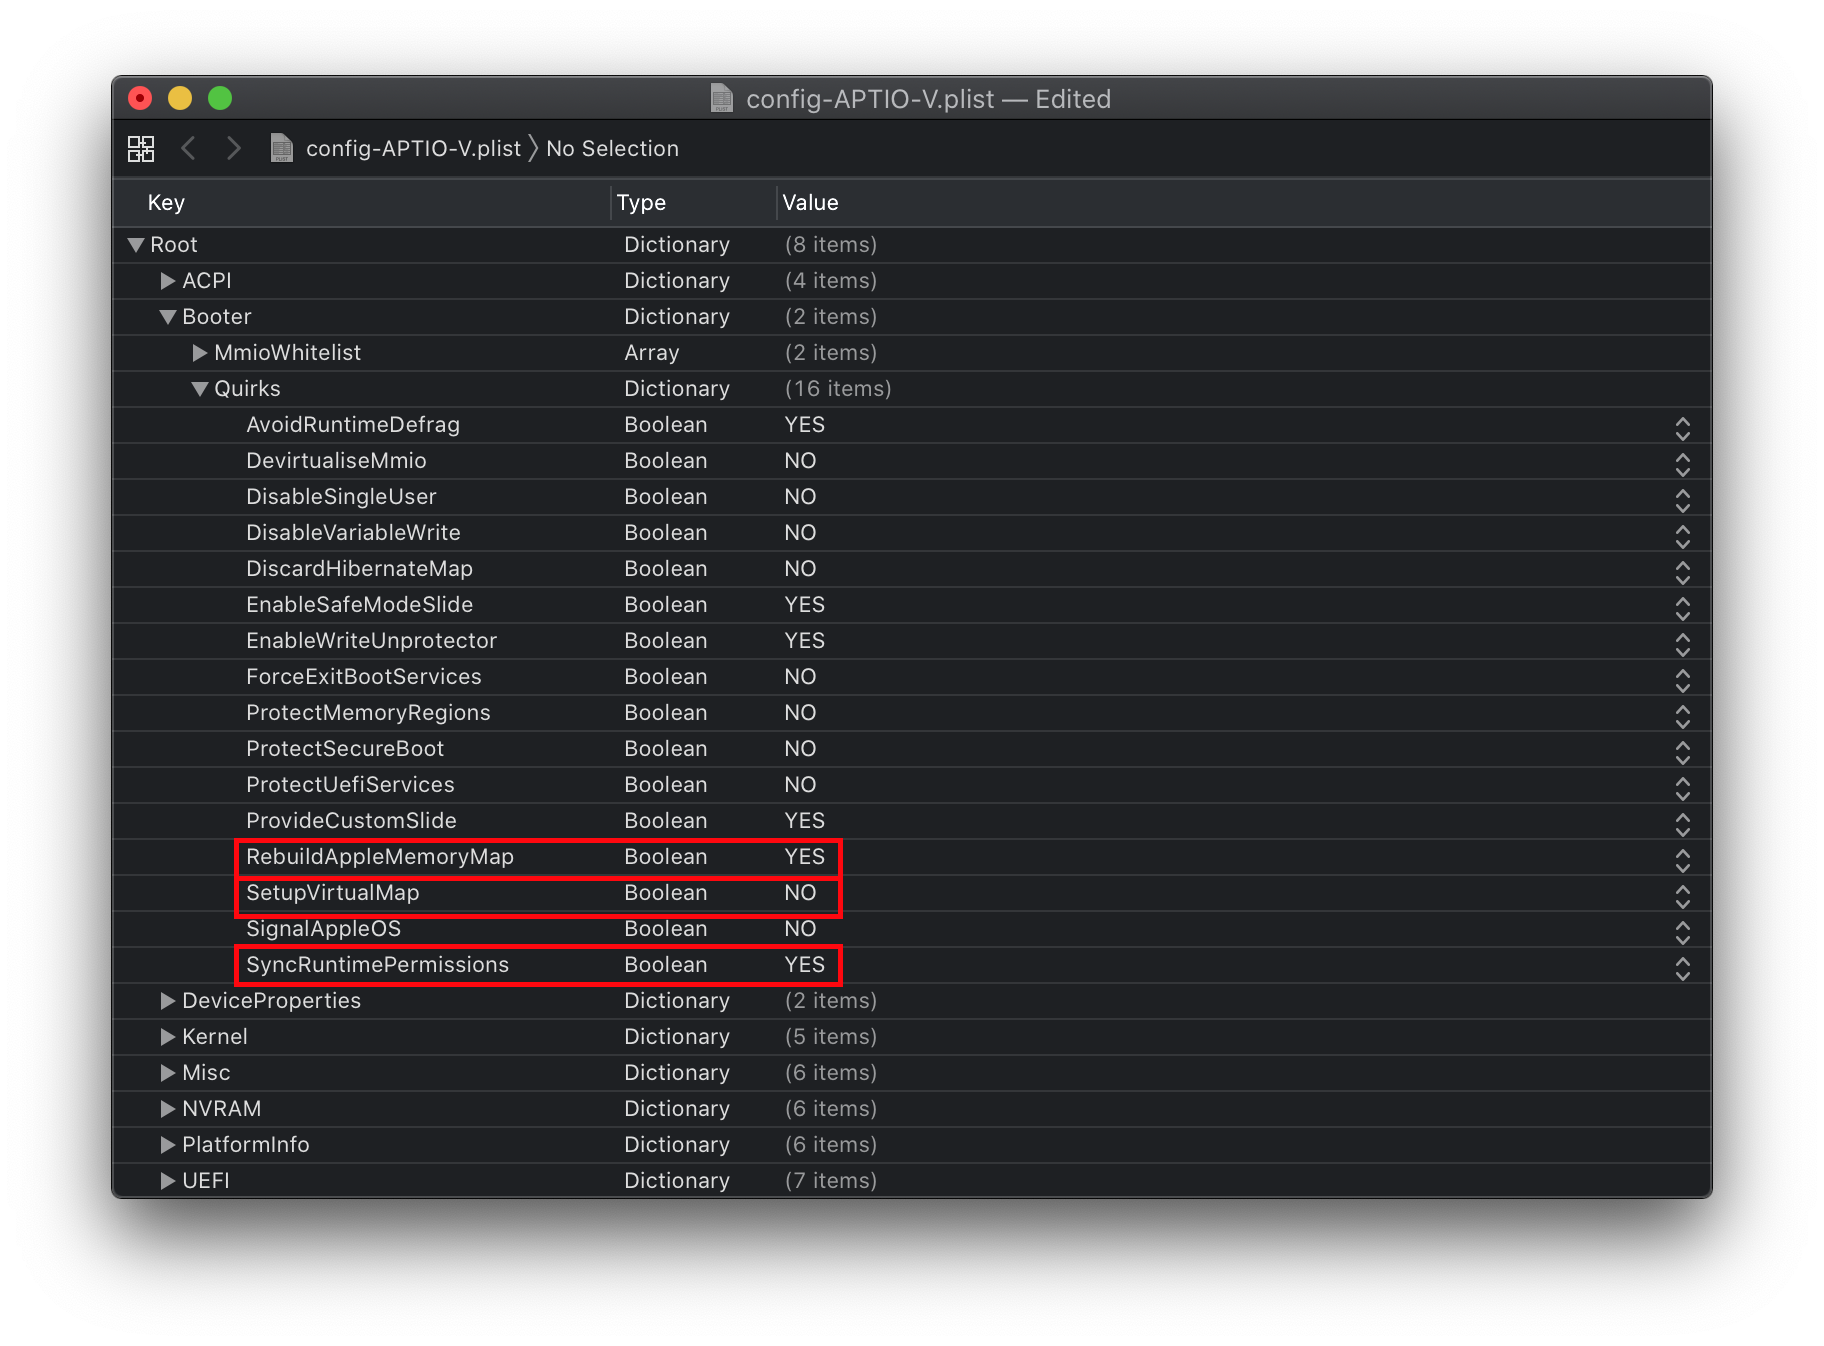
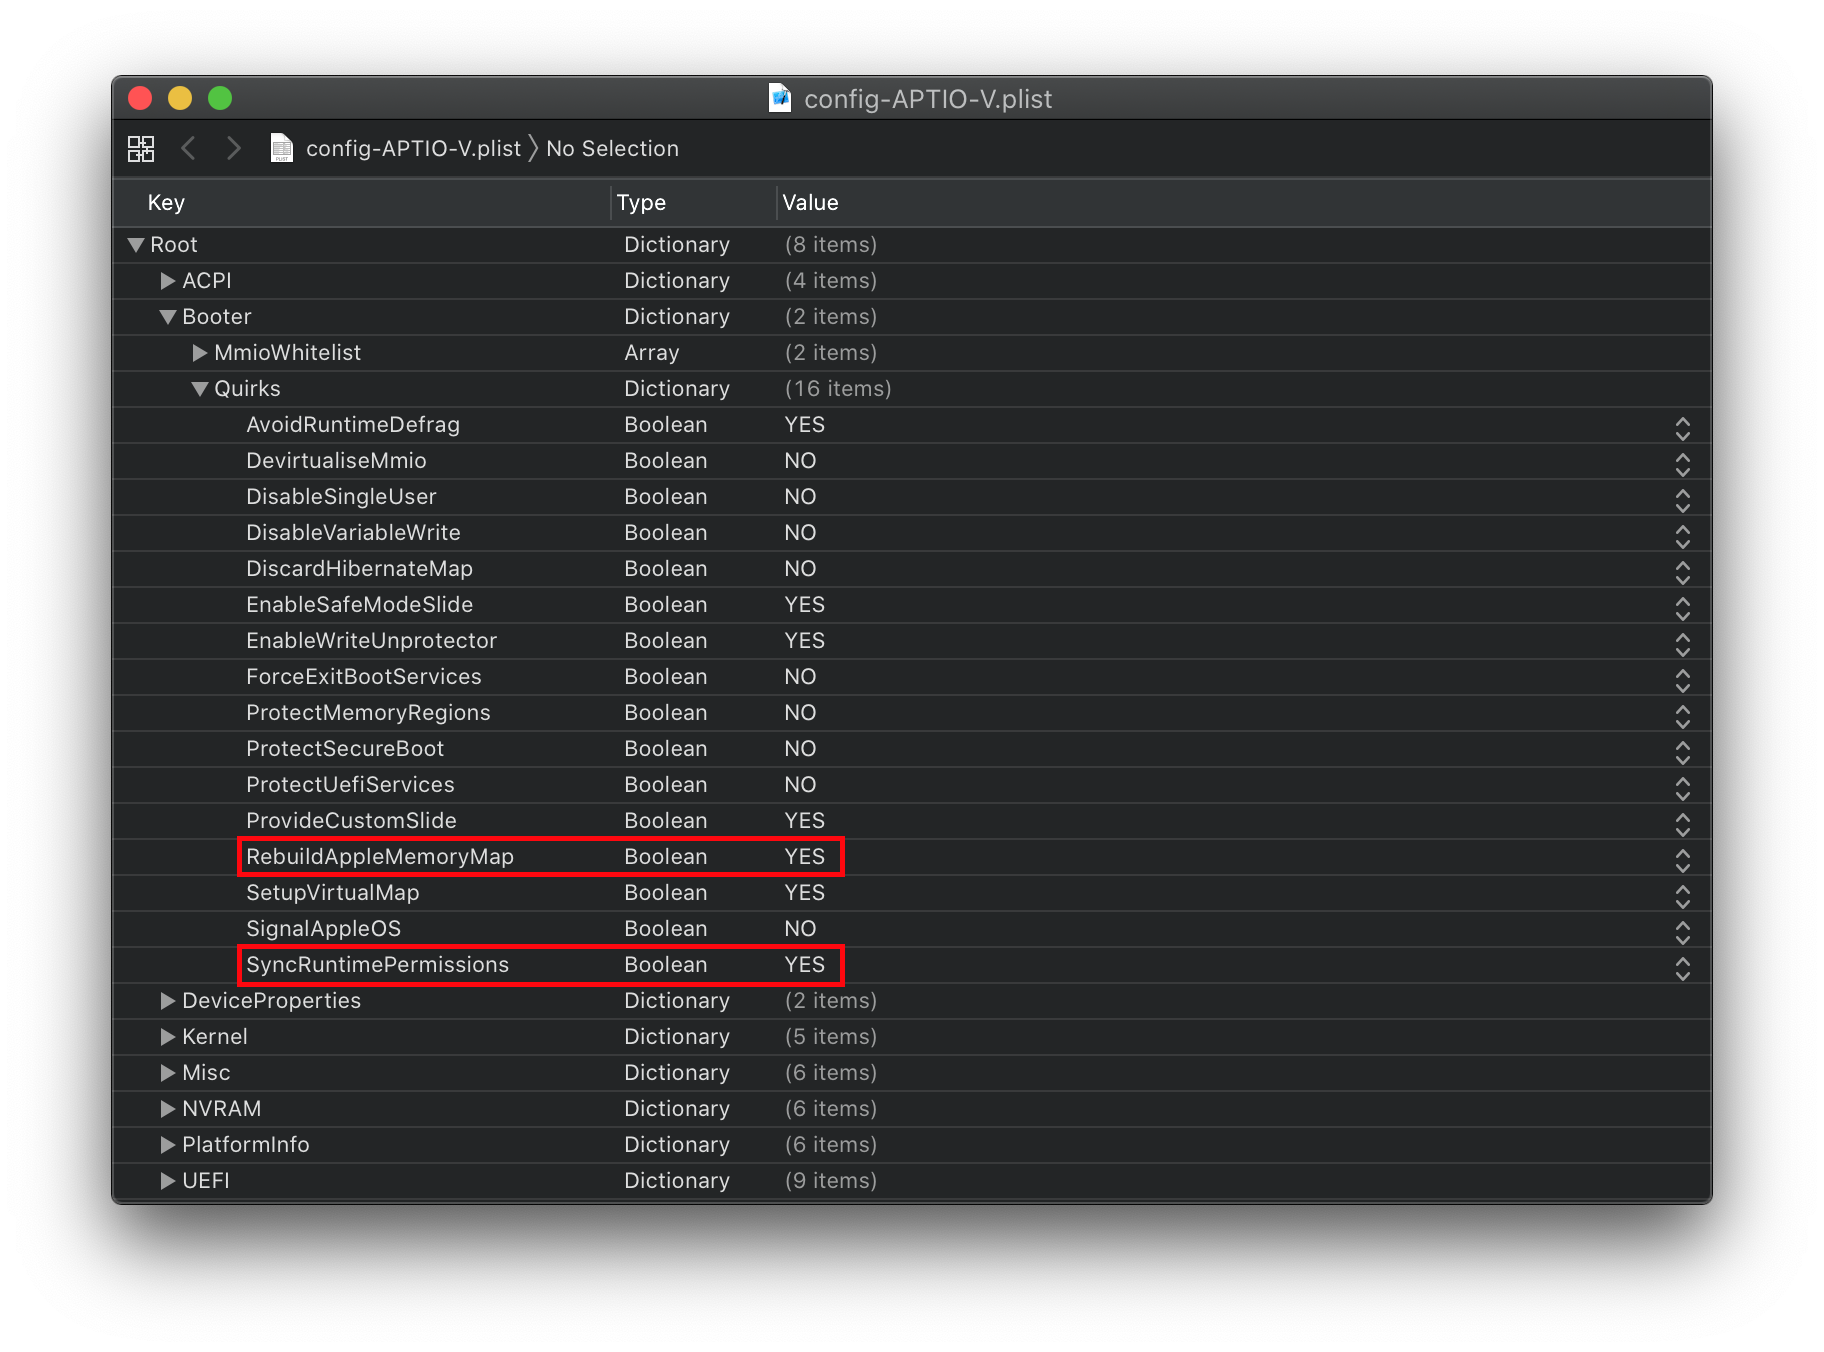
Revert SetupVirtualMap setting

diff --git a/config-HEDT/skylake-x.md b/config-HEDT/skylake-x.md
@@ -1,4 +1,4 @@
-# Skylake-X
+# Skylake-X/W and Cascade Lake-X/W
 
 * Supported version: 0.5.8
 
@@ -121,12 +121,13 @@ Settings relating to boot.efi patching and firmware fixes, ones we need to chang
   * Fixes Secure Boot keys on MacPro5,1 and Insyde firmwares
 * **ProtectUefiServices**: NO
   * Protects UEFI services from being overridden by the firmware, mainly relevant for VMs, Icelake and newer Coffee Lake systems
+  * X299 Refresh boards also need this(Comet Lake)
 * **ProvideCustomSlide**: YES
   * If there's a conflicting slide value, this option forces macOS to use a pseudo-random value. Needed for those receiving `Only N/256 slide values are usable!` debug message
 * **RebuildAppleMemoryMap**: YES
   * Generates Memory Map compatible with macOS, can break on some laptop OEM firmwares so if you receive early boot failures disable this
-* **SetupVirtualMap**: NO
-  * Fixes SetVirtualAddresses calls to virtual addresses, not needed on Skylake and newer. Some firmware like Gigabyte may still require it, and will kernel panic without this
+* **SetupVirtualMap**: YES
+  * Fixes SetVirtualAddresses calls to virtual addresses, shouldn't be needed on Skylake and newer. Some firmware like Gigabyte may still require it, and will kernel panic without this
 * **SignalAppleOS**: NO
   * Tricks the hardware into thinking its always booting macOS, mainly beneficial for MacBook Pro's with dGPUs as booting Windows won't allow for the iGPU to be used
 * **SyncRuntimePermissions**: YES
@@ -175,7 +176,8 @@ Settings relating to the kernel, for us we'll be enabling `AppleCpuPmCfgLock`, `
 * **AppleXcpmCfgLock**: YES
   * Only needed when CFG-Lock can't be disabled in BIOS, Clover counterpart would be KernelPM. **Please verify you can disable CFG-Lock, most systems won't boot with it on so requiring use of this quirk**
 * **AppleXcpmExtraMsrs**: NO
-  * Disables multiple MSR access needed for unsupported CPUs like Pentiums and many Xeons. Skylake-X can ignore
+  * Disables multiple MSR access needed for unsupported CPUs like Pentiums and many Xeons. Skylake-X can ignore.
+  * Certain systems(mainly Skylake-SP) may require this quirk to boot.
 * **AppleXcpmForceBoost**: NO
   * Forces maximum multiplier, only recommended to enable on scientific or media calculation machines that are constantly under load. Main Xeons benefit from this
 * **CustomSMBIOSGuid**: NO

diff --git a/AMD/zen.md b/AMD/zen.md
@@ -125,8 +125,8 @@ Settings relating to boot.efi patching and firmware fixes, for us we care about 
   * If there's a conflicting slide value, this option forces macOS to use a pseudo-random value. Needed for those receiving `Only N/256 slide values are usable!` debug message
 * **RebuildAppleMemoryMap**: YES
   * Generates Memory Map compatible with macOS, can break on some laptop OEM firmwares so if you receive early boot failures disable this
-* **SetupVirtualMap**: NO
-  * Fixes SetVirtualAddresses calls to virtual addresses, not needed on Skylake and newer. Some firmware like Gigabyte may still require it, and will kernel panic without this
+* **SetupVirtualMap**: YES
+  * Fixes SetVirtualAddresses calls to virtual addresses, shouldn't be needed on Skylake and newer. Some firmware like Gigabyte may still require it, and will kernel panic without this
 * **SignalAppleOS**: NO
   * Tricks the hardware into thinking its always booting macOS, mainly beneficial for MacBook Pro's with dGPUs as booting Windows won't allow for the iGPU to be used
 * **SyncRuntimePermissions**: YES

diff --git a/config.plist/coffee-lake.md b/config.plist/coffee-lake.md
@@ -127,8 +127,8 @@ Settings relating to boot.efi patching and firmware fixes, ones we need to chang
   * If there's a conflicting slide value, this option forces macOS to use a pseudo-random value. Needed for those receiving `Only N/256 slide values are usable!` debug message
 * **RebuildAppleMemoryMap**: YES
   * Generates Memory Map compatible with macOS, can break on some laptop OEM firmwares so if you receive early boot failures disable this
-* **SetupVirtualMap**: NO
-  * Fixes SetVirtualAddresses calls to virtual addresses, not needed on Skylake and newer. Some firmware like Gigabyte may still require it, and will kernel panic without this
+* **SetupVirtualMap**: YES
+  * Fixes SetVirtualAddresses calls to virtual addresses, shouldn't be needed on Skylake and newer. Some firmware like Gigabyte may still require it, and will kernel panic without this
 * **SignalAppleOS**: NO
   * Tricks the hardware into thinking its always booting macOS, mainly beneficial for MacBook Pro's with dGPUs as booting Windows won't allow for the iGPU to be used
 * **SyncRuntimePermissions**: YES

diff --git a/config.plist/kaby-lake.md b/config.plist/kaby-lake.md
@@ -124,8 +124,8 @@ Settings relating to boot.efi patching and firmware fixes, ones we need to chang
   * If there's a conflicting slide value, this option forces macOS to use a pseudo-random value. Needed for those receiving `Only N/256 slide values are usable!` debug message
 * **RebuildAppleMemoryMap**: YES
   * Generates Memory Map compatible with macOS, can break on some laptop OEM firmwares so if you receive early boot failures disable this
-* **SetupVirtualMap**: NO
-  * Fixes SetVirtualAddresses calls to virtual addresses, not needed on Skylake and newer. Some firmware like Gigabyte may still require it, and will kernel panic without this
+* **SetupVirtualMap**: YES
+  * Fixes SetVirtualAddresses calls to virtual addresses, shouldn't be needed on Skylake and newer. Some firmware like Gigabyte may still require it, and will kernel panic without this
 * **SignalAppleOS**: NO
   * Tricks the hardware into thinking its always booting macOS, mainly beneficial for MacBook Pro's with dGPUs as booting Windows won't allow for the iGPU to be used
 * **SyncRuntimePermissions**: YES

diff --git a/config.plist/skylake.md b/config.plist/skylake.md
@@ -124,8 +124,8 @@ Settings relating to boot.efi patching and firmware fixes, ones we need to chang
   * If there's a conflicting slide value, this option forces macOS to use a pseudo-random value. Needed for those receiving `Only N/256 slide values are usable!` debug message
 * **RebuildAppleMemoryMap**: YES
   * Generates Memory Map compatible with macOS, can break on some laptop OEM firmwares so if you receive early boot failures disable this
-* **SetupVirtualMap**: NO
-  * Fixes SetVirtualAddresses calls to virtual addresses, not needed on Skylake and newer. Some firmware like Gigabyte may still require it, and will kernel panic without this
+* **SetupVirtualMap**: YES
+  * Fixes SetVirtualAddresses calls to virtual addresses, shouldn't be needed on Skylake and newer. Some firmware like Gigabyte may still require it, and will kernel panic without this
 * **SignalAppleOS**: NO
   * Tricks the hardware into thinking its always booting macOS, mainly beneficial for MacBook Pro's with dGPUs as booting Windows won't allow for the iGPU to be used
 * **SyncRuntimePermissions**: YES

diff --git a/SUMMARY.md b/SUMMARY.md
@@ -21,7 +21,7 @@
 
 * [Haswell-E](/config-HEDT/haswell-e.md)
 * [Broadwell-E](/config-HEDT/broadwell-e.md)
-* [Skylake-X](/config-HEDT/skylake-x.md)
+* [Skylake/Cascade Lake-X/W](/config-HEDT/skylake-x.md)
 
 ## AMD Config.plist
 
